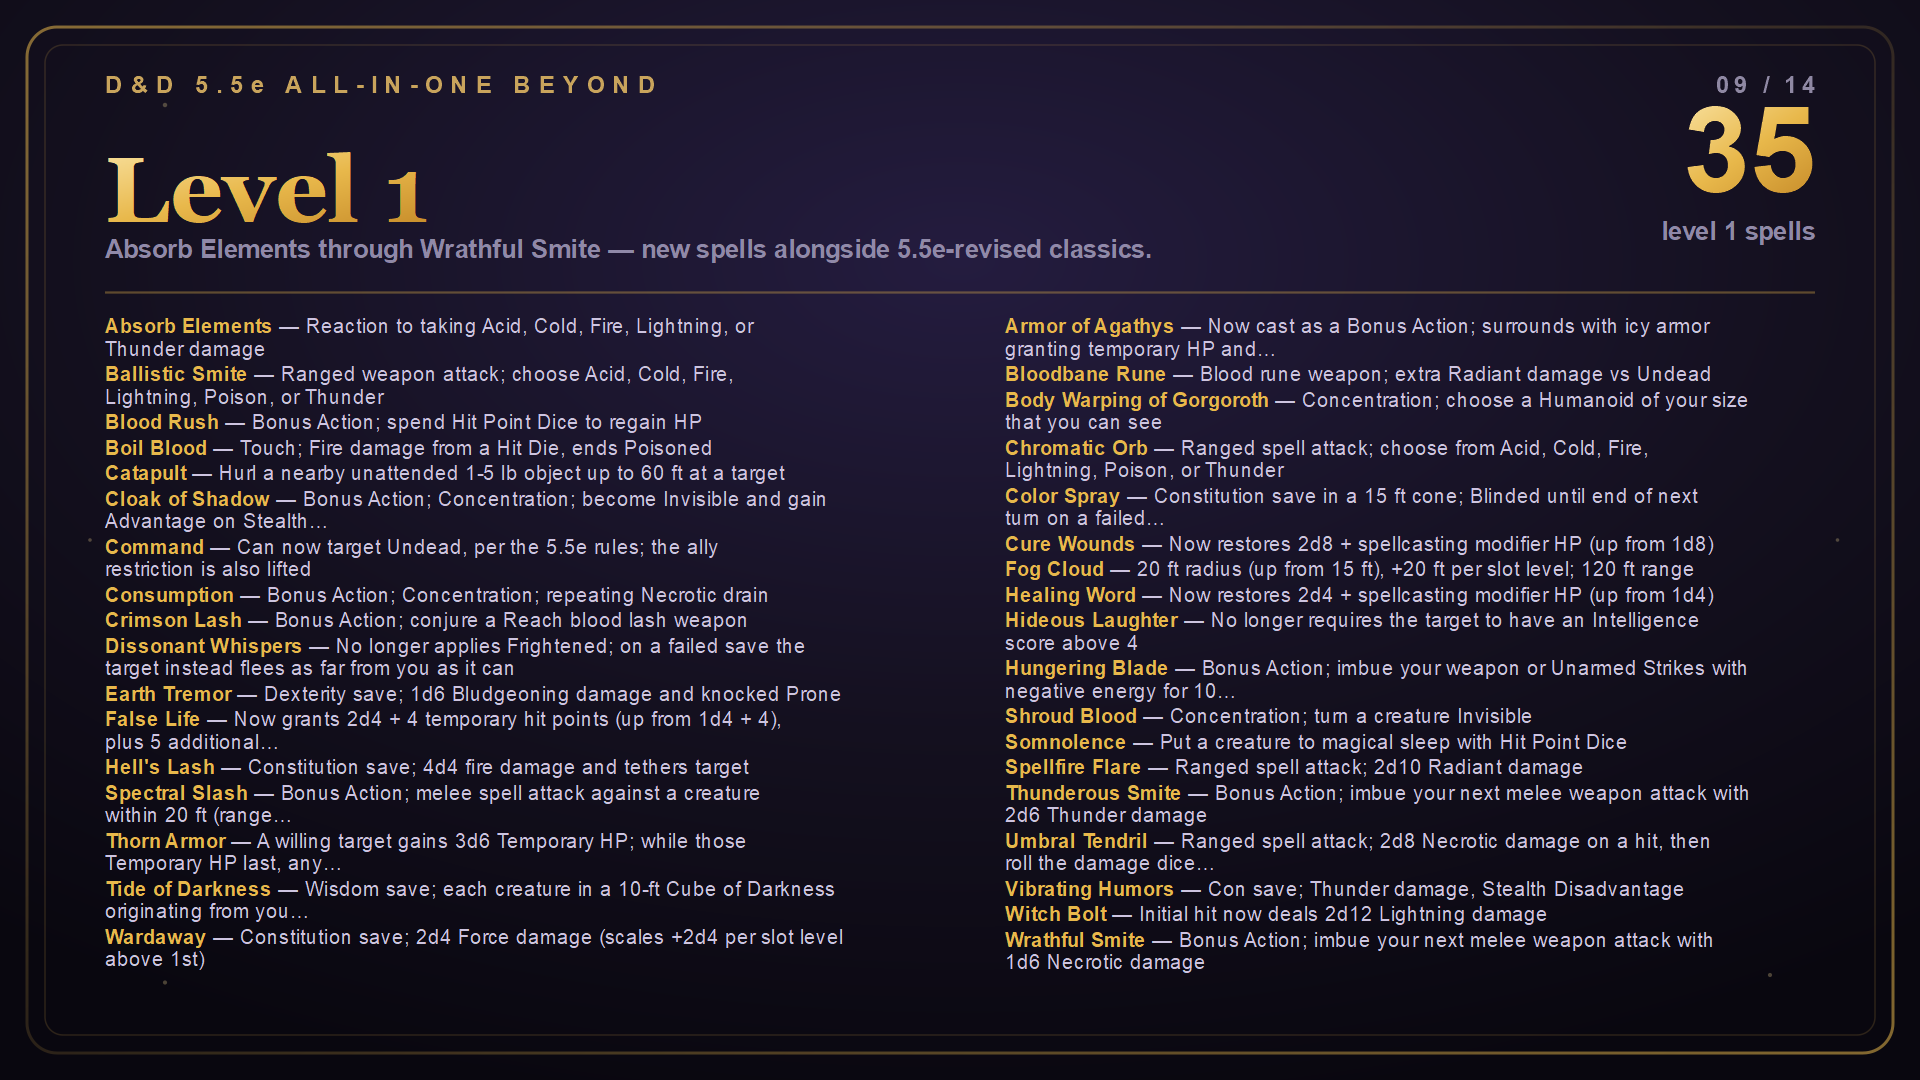
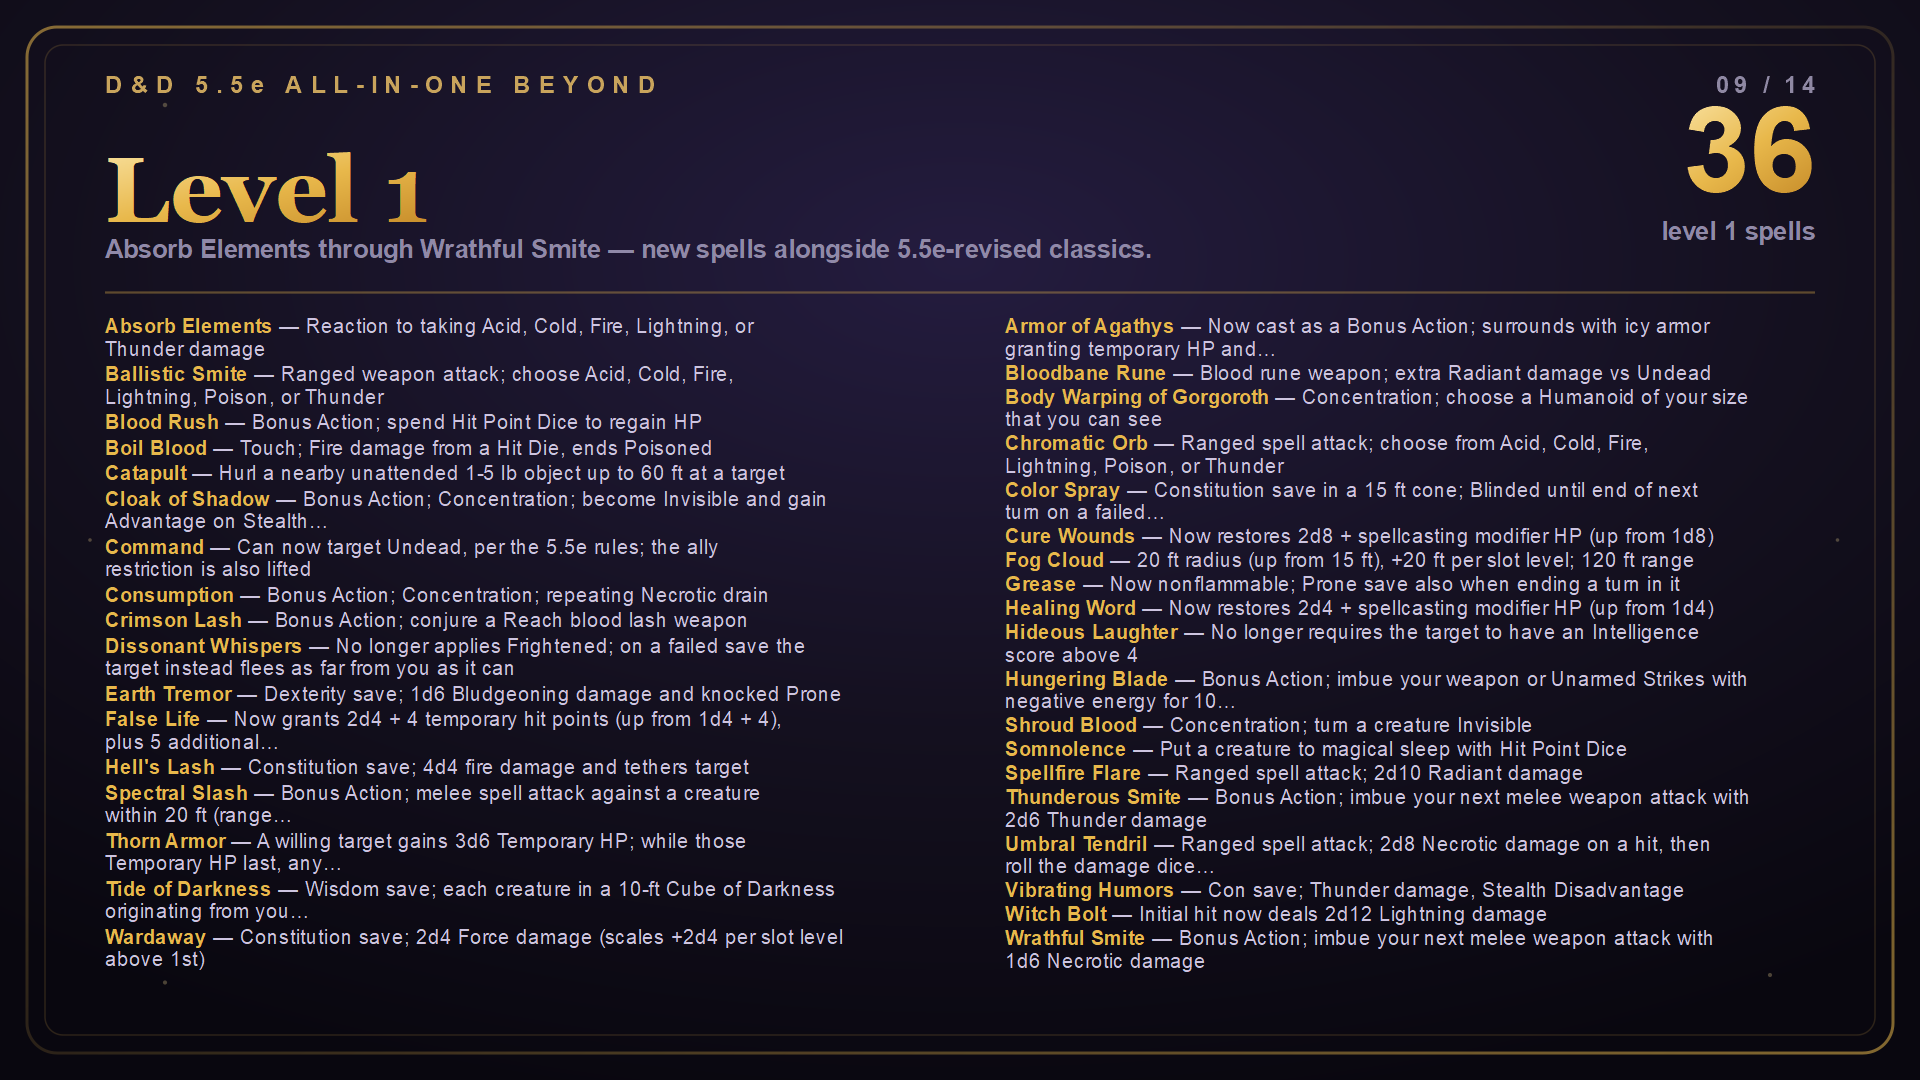
feat(spells): revise Grease per the 5.5 rules
Override Target_Grease and its upcast tiers with the 5.5 description
(nonflammable grease, radius and range from AreaRadius/TargetRadius),
make the Prone save also trigger when a creature ends its turn in the
grease surface (ApplyTypes 19 -> 11), and count Grease as a revised
spell in the READMEs, level 1 slide and thumbnail (143).

Changed region(s): [[0.5, 0.3361, 0.9062, 0.825], [0.5312, 0.825, 0.9062, 0.9167], [0.9062, 0.0917, 0.9375, 0.1528]]

diff --git a/README_Modio.html b/README_Modio.html
@@ -89,7 +89,7 @@
 
 <h3>Leveled Spells</h3>
 <ul>
-  <li><strong>Level 1:</strong> Absorb Elements, Armor of Agathys, Ballistic Smite, Blood Rush, Bloodbane Rune, Body Warping of Gorgoroth, Boil Blood, Catapult, Chromatic Orb, Cloak of Shadow, Color Spray, Command, Consumption, Crimson Lash, Cure Wounds, Dissonant Whispers, Earth Tremor, False Life, Fog Cloud, Healing Word, Hell's Lash, Hideous Laughter, Hungering Blade, Shroud Blood, Somnolence, Spectral Slash, Spellfire Flare, Thorn Armor, Thunderous Smite, Tide of Darkness, Umbral Tendril, Vibrating Humors, Wardaway, Witch Bolt, Wrathful Smite.</li>
+  <li><strong>Level 1:</strong> Absorb Elements, Armor of Agathys, Ballistic Smite, Blood Rush, Bloodbane Rune, Body Warping of Gorgoroth, Boil Blood, Catapult, Chromatic Orb, Cloak of Shadow, Color Spray, Command, Consumption, Crimson Lash, Cure Wounds, Dissonant Whispers, Earth Tremor, False Life, Fog Cloud, Grease, Healing Word, Hell's Lash, Hideous Laughter, Hungering Blade, Shroud Blood, Somnolence, Spectral Slash, Spellfire Flare, Thorn Armor, Thunderous Smite, Tide of Darkness, Umbral Tendril, Vibrating Humors, Wardaway, Witch Bolt, Wrathful Smite.</li>
   <li><strong>Level 2:</strong> Aganazzar's Scorcher, Alter Self, Arcane Vigor, Barkskin, Blood Wisp, Darkbolt, Dazing Blast, Death Armor, Dragon's Breath, Elminster's Elusion, Find Steed, Fire Rune, Gust of Wind, Lesser Restoration, Mind Spike, Moonbeam, Prayer of Healing, Rime's Binding Ice, Sanguine Shield, Searing Orb, Sense Lifeblood, Shadow Blade, Snilloc's Snowball Swarm, Summon Beast, Tasha's Mind Whip, Theft of Vitae, Warding Bond, Web, Wilting Smite.</li>
   <li><strong>Level 3:</strong> Animate Dead, Ashardalon's Stride, Astral Flood, Aura of Vitality, Bestow Curse, Blood Bond, Cacophonic Shield, Conjure Barrage, Counterspell, Crusader's Mantle, Elemental Exhalation, Extract Iron, Haste, Laeral's Silver Lance, Lightning Arrow, Murmurs of Doom, Phantom Steed, Reanimate, Sanguine Poppet, Serpent Tongue, Summon Fey, Summon Undead, Tidal Wave, Trollblood Infusion, Void Strike.</li>
   <li><strong>Level 4:</strong> Arcane Eye, Charm Monster, Circle of Scarlet, Conjure Woodland Beings, Dark Sacrament, Fire Dance, Fount of Moonlight, Murder of Crows, Spellfire Storm, Summon Aberration, Summon Elemental, Viscous Sheath, Vitriolic Sphere.</li>

diff --git a/README.md b/README.md
@@ -99,7 +99,7 @@ Acid Splash, Blade Ward, Blood Bolt, Booming Blade, Bursting Sinew, Finger Guns,
 
 ### Leveled Spells
 
-- Level 1: Absorb Elements, Armor of Agathys, Ballistic Smite, Blood Rush, Bloodbane Rune, Body Warping of Gorgoroth, Boil Blood, Catapult, Chromatic Orb, Cloak of Shadow, Color Spray, Command, Consumption, Crimson Lash, Cure Wounds, Dissonant Whispers, Earth Tremor, False Life, Fog Cloud, Healing Word, Hell's Lash, Hideous Laughter, Hungering Blade, Shroud Blood, Somnolence, Spectral Slash, Spellfire Flare, Thorn Armor, Thunderous Smite, Tide of Darkness, Umbral Tendril, Vibrating Humors, Wardaway, Witch Bolt, Wrathful Smite.
+- Level 1: Absorb Elements, Armor of Agathys, Ballistic Smite, Blood Rush, Bloodbane Rune, Body Warping of Gorgoroth, Boil Blood, Catapult, Chromatic Orb, Cloak of Shadow, Color Spray, Command, Consumption, Crimson Lash, Cure Wounds, Dissonant Whispers, Earth Tremor, False Life, Fog Cloud, Grease, Healing Word, Hell's Lash, Hideous Laughter, Hungering Blade, Shroud Blood, Somnolence, Spectral Slash, Spellfire Flare, Thorn Armor, Thunderous Smite, Tide of Darkness, Umbral Tendril, Vibrating Humors, Wardaway, Witch Bolt, Wrathful Smite.
 - Level 2: Aganazzar's Scorcher, Alter Self, Arcane Vigor, Barkskin, Blood Wisp, Darkbolt, Dazing Blast, Death Armor, Dragon's Breath, Elminster's Elusion, Find Steed, Fire Rune, Gust of Wind, Lesser Restoration, Mind Spike, Moonbeam, Prayer of Healing, Rime's Binding Ice, Sanguine Shield, Searing Orb, Sense Lifeblood, Shadow Blade, Snilloc's Snowball Swarm, Summon Beast, Tasha's Mind Whip, Theft of Vitae, Warding Bond, Web, Wilting Smite.
 - Level 3: Animate Dead, Ashardalon's Stride, Astral Flood, Aura of Vitality, Bestow Curse, Blood Bond, Cacophonic Shield, Conjure Barrage, Counterspell, Crusader's Mantle, Elemental Exhalation, Extract Iron, Haste, Laeral's Silver Lance, Lightning Arrow, Murmurs of Doom, Phantom Steed, Reanimate, Sanguine Poppet, Serpent Tongue, Summon Fey, Summon Undead, Tidal Wave, Trollblood Infusion, Void Strike.
 - Level 4: Arcane Eye, Charm Monster, Circle of Scarlet, Conjure Woodland Beings, Dark Sacrament, Fire Dance, Fount of Moonlight, Murder of Crows, Spellfire Storm, Summon Aberration, Summon Elemental, Viscous Sheath, Vitriolic Sphere.
